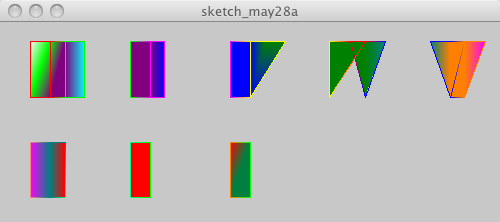
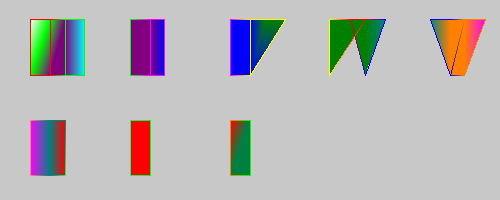
fixed quadstrip lines color bug

diff --git a/examples/seneca/bug634/test7/test.html b/examples/seneca/bug634/test7/test.html
@@ -10,31 +10,47 @@
     <h2>Test for <a href="http://processing-js.lighthouseapp.com/projects/41284/tickets/634">bug 634</a></h2>
 
     <p>This page tests the fix for <a href="http://processing-js.lighthouseapp.com/projects/41284/tickets/634">bug 634</a> for <a href="http://processingjs.org/">Processing.js</a><br />
-    If the canvas and image below are identical, the test has passed.<br />
+    No P5 screenshot because it has issues with this test.<br />
+    Testing case when vertex is called without providing type (POINTS, TRIANGLES, etc)<br />
+    <br />
+    beginShape();<br />
+    vertex(0, 0, 0);<br />
+    endShape();<br />
     </p>
 
     <p>
       <canvas datasrc="test.pjs"></canvas>
-      <img src="p5_result.jpg" style="margin:10px 0px;" />
     </p>
     
     <pre>
 <b>// Test by Andor Salga</b>
 import processing.opengl.*;
 
-void setup(){
-  size(100,100,OPENGL);
-  translate(width/2, height/2,0);
-  stroke(0);
+void setup() 
+{ 
+  size(100, 100, OPENGL);
+  background(0);
 
-  beginShape(TRIANGLES);
-  fill(256,0,0);
-  vertex(0,-20,0);
-  fill(0,256,0);
-  vertex(-30,20,0);
-  fill(0,0,256);
-  vertex(30,20,0);
-  endShape();
+  stroke(255, 0, 0);
+  for(int x = 0; x < 100; x++){
+    beginShape();
+    vertex(x, x, 0);
+    endShape();
+  }
+
+  stroke(0, 255, 0);
+  for(int x = 0; x < 100; x++){
+    beginShape();
+    vertex(100-x, x, 0);
+    endShape();
+  }
+
+  stroke(0 ,0, 255);
+  for(int x = 0; x < 100; x++){
+    beginShape();
+    vertex(100-x, 50, 0);
+    endShape();
+  }
 }</pre>
 
   </body>

diff --git a/processing.js b/processing.js
@@ -5360,7 +5360,6 @@
               if(doStroke){
                 line3D(lineVertArray, "LINE_LOOP", strokeVertArray);
               }
-
               
               for(i = 2; (i+1) < vertArray.length; i++){
                 lineVertArray = [];
@@ -5461,6 +5460,7 @@
               }
               for(i = 0; (i+3) < vertArray.length; i+=2){
                 lineVertArray = [];
+                strokeVertArray = [];
                 for(j = 0; j < 3; j++){
                   lineVertArray.push(vertArray[i+1][j]);
                 }
@@ -5473,8 +5473,21 @@
                 for(j = 0; j < 3; j++){
                   lineVertArray.push(vertArray[i+0][j]);
                 }
+                for(j = 9; j < 13; j++){
+                  strokeVertArray.push(vertArray[i+1][j]);
+                }
+                for(j = 9; j < 13; j++){
+                  strokeVertArray.push(vertArray[i+3][j]);
+                }
+                for(j = 9; j < 13; j++){
+                  strokeVertArray.push(vertArray[i+2][j]);
+                }
+                for(j = 9; j < 13; j++){
+                  strokeVertArray.push(vertArray[i+0][j]);
+                }
                 line3D(lineVertArray, "LINE_STRIP", strokeVertArray);
               }
+
               if(doFill){
                 fill3D(fillVertArray, "TRIANGLE_LIST", colorVertArray);
               }

diff --git a/examples/seneca/bug634/test5/test.html b/examples/seneca/bug634/test5/test.html
@@ -15,11 +15,32 @@
 
     <p>
       <canvas datasrc="test.pjs"></canvas>
+      <img src="p5_result.jpg" style="margin: 10px 0px;" />
     </p>
     
     <pre>
 <b>// Test by Andor Salga</b>
-</pre>
+import processing.opengl.*;
+
+void setup() 
+{ 
+  size(100, 100, OPENGL);
+  background(0);
+  colorMode(RGB, 1);
+
+  beginShape(POINT);
+  pushMatrix();
+
+  for(int y = 0; y < 100; y+=5){
+  for(int x = 0; x < 100; x+=5){
+      stroke(x/100.0f,y/100.0f,100-x/100.0f);
+      vertex(x, y, 0);
+    }
+  }
+  popMatrix();
+
+  endShape();
+}</pre>
 
   </body>
 </html>

diff --git a/examples/seneca/bug634/endShape-3dtest-polygon/endShape-3dtest-polygon.html b/examples/seneca/bug634/endShape-3dtest-polygon/endShape-3dtest-polygon.html
@@ -6,7 +6,7 @@
   </head>
   <body>
     <h1>beginShape() and endShape() test</h1>
-
+<p>The white triangles outside polygons is a known issue</p>
     <p>
     <canvas datasrc="endShape-3Dtest-polygon.pjs" width="500" height="100"></canvas>
     <img src="p5_result.jpg" style="margin: 10px 0px;" />
